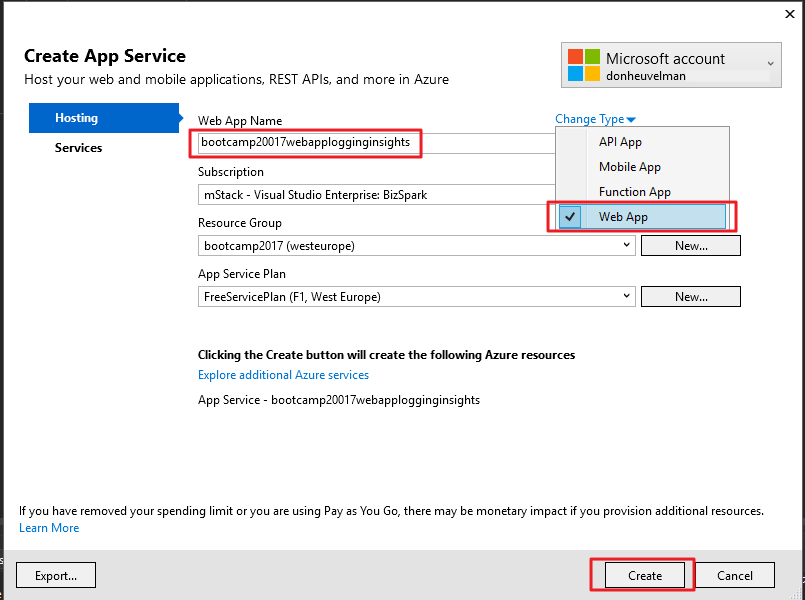
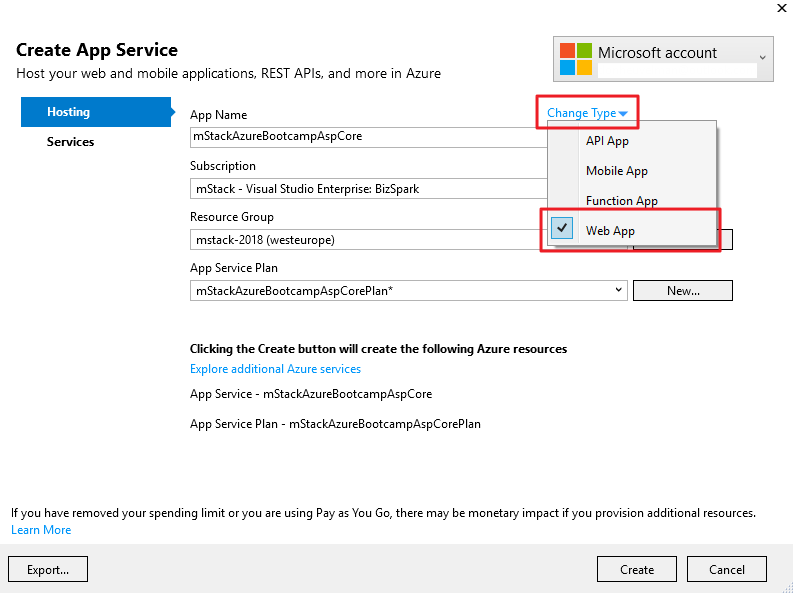
Update creation and deployment

Changed region(s): [[0.0, 0.0, 1.0, 1.0], [0.2421, 0.5767, 0.7264, 0.7285]]

diff --git a/README.md b/README.md
@@ -13,7 +13,7 @@ In this lab, you will learn how to:
 ## Create a default ASP.NET Core webapplication
 
 1.	Start Visual Studio 2017 and hit **CTRL**+**SHIFT**+**N** to create a new project (or click File/New/Project)
-2.	In the 'New Project' view, select **.NET Core** under *Visual C#* and on the right select **ASP.NET Core Web Application (.NET Core)**. 
+2.	In the 'New Project' view, select **.NET Core** under *Visual C#* and on the right select **ASP.NET Core Web Application**. 
 3.  Enter a name for your project and click OK.
 
 	![001 Create a new ASP.NET Core project][1]
@@ -22,7 +22,7 @@ In this lab, you will learn how to:
 	
 	![002 Select the Web Application project template][2]
 
-5.  Build and run the application to make sure everything is working. If everything is OK the web application should show up in your predefined browser with a title identical to the name of the project you set earlier.
+5.  Build (CTRL+SHIFT+B) and run (F5) the application to make sure everything is working. If everything is OK the web application should show up in your predefined browser with a title identical to the name of the project you set earlier.
   
 	![003 Build and run your ASP.NET Core project][3]
 
@@ -32,7 +32,7 @@ In this lab, you will learn how to:
 <a name="publish-to-azure"></a>
 ## Publish the webapplication to Azure
 
-1. If the application is still running in debug, now is the time so stop it.
+1. If the application is still running in debug, now is the time so stop it (either close the browser or in Visual Studio hit SHIFT+F5)
 2. In the Solution Explorer (hit CTRL+W,S to view the Solution Explorer) right click on the project and select **Publish** from the context menu.
    
    ![004 Select Publish in the Solution Explorer context menu][4]
@@ -41,11 +41,12 @@ In this lab, you will learn how to:
    
    ![005 Select Publish in the Solution Explorer context menu][5]
 
-4. In the *Create Ap Service* screen you have to set a unique name as this will be part of url. Also make sure to select the correct type of App Service being **Web App**.
+4. In the *Create Ap Service* screen you have to set a unique _App Name_ value as this will be part of url. Also make sure to select the correct type of App Service being **Web App**. For this demo it's best to change the App Serivce Plan to a **Free** plan so there won't be any additional charges involved.
    
    ![006 Select Publish in the Solution Explorer context menu][6]
 
-5. When you press 'Create' the application is being deployed to Azure which takes a moment. After a while it will open the browser and show you the web application online.
+5. When you press 'Create' the application is being deployed to Azure, which takes a moment. After a while your will open and show you the web application online.
+
    ![007 Your app is online!][7]
 
 <a name="application-insights"></a>
